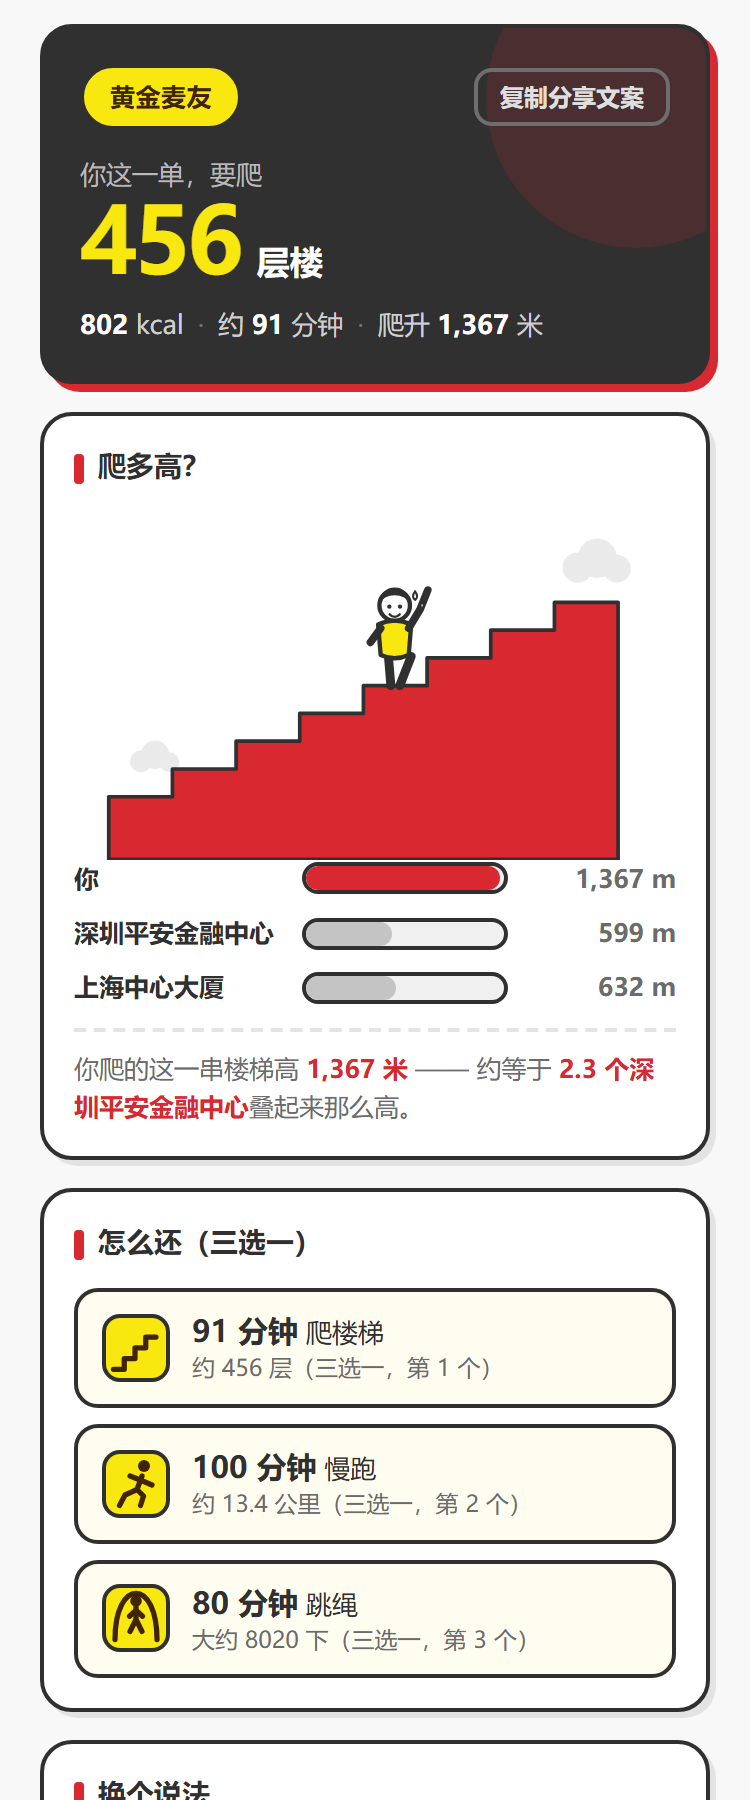
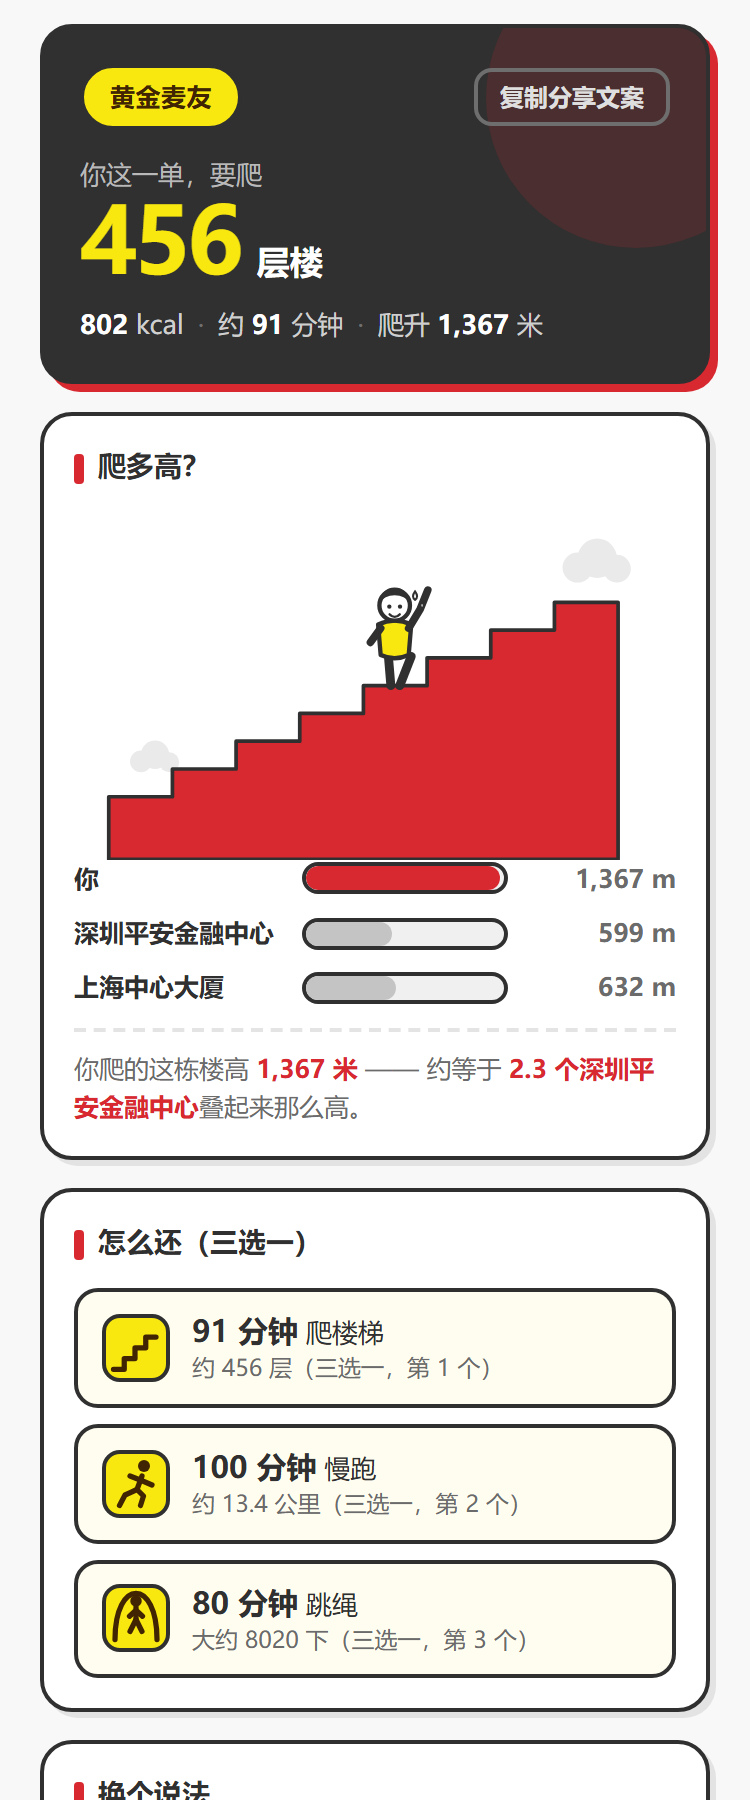
fix: 消除两引擎地标文案分叉，补齐轻食订单缺失的地标行
1.3.0 记录的"已知限制"实为两引擎行为分叉：同一笔订单，CLI 与 Demo 对地标
给出两种说法。数字没错，但违背 README"两引擎数字同源"的承诺，且只在特定
高度才暴露，普通回归跑不出来。

- 精度统一一位小数：CLI 用 %.0f（"约等于 2 个"），Demo 用 toFixed(1)
  （"约等于 2.3 个"）。统一为一位小数 —— 0 位会把 2.28 与 2.01 都压成
  "2 个"，丢失区分度。
- 轻食兜底：爬升 < 599 米时 Python 返回 None，render() 整行不输出，而
  Demo 有 nextLandmark() 兜底会显示"还差 98 米"。现 Python 补
  next_landmark()，任意正高度都有参照，不新增地标、不改变既有 >=599 米
  场景的输出。
- 接口解耦：Python 拆出引擎层 landmark_of() / next_landmark()（返回结构化
  数据，与 JS 的 landmarkNote()/nextLandmark() 一一对应），landmark_note()
  降级为薄展示层。此前一个在引擎层拼文案、一个在展示层拼，同一段文案逻辑
  两处维护，必然漂移。
- 措辞统一：Demo 的"你爬的这一串楼梯高 X 米"改为"你爬的这栋楼高 X 米"，
  与 CLI 一致。

验证：--doctor 13/13（新增"地标参照覆盖与精度"）· verify_demo.js 28/28
（新增 4 项地标契约）· stress_test.py 0 崩溃 / 0 错误 / 0 提示（原唯一提示
"轻食无地标参照"已消除）。两张截图按同参数重出，实测 375px 视口
cw=sw=375 无横向溢出。

Changed region(s): [[0.092, 0.5911, 0.8587, 0.6222]]

diff --git a/scripts/verify_demo.js b/scripts/verify_demo.js
@@ -82,9 +82,19 @@ check("802kcal 爬楼高度 = 1367 米", Math.round(c["爬楼高度米"]) === 13
 check("段位 802 -> 黄金麦友", E.rankOf(802) === "黄金麦友", E.rankOf(802));
 check("段位 294 -> 青铜麦友", E.rankOf(294) === "青铜麦友", E.rankOf(294));
 
-// 地标参照
-const lm = E.landmarkNote(1368);
-check("地标参照存在", !!lm, lm ? lm.ratio.toFixed(2) + " 个" + lm.name : "无");
+// 地标参照（引擎层返回结构、展示层格式化为一位小数 —— 与 Python landmark_note 对齐）
+// 1367 / 599 = 2.2818…，一位小数 = 2.3；0 位会把 2.28 与 2.01 都说成"2 个"
+const lm = E.landmarkNote(1367);
+check("地标 1367 米 -> 平安金融中心", !!(lm && lm.name === "深圳平安金融中心"),
+  lm ? lm.ratio.toFixed(2) + " 个" + lm.name : "无");
+check("地标精度一位小数 = 2.3", !!(lm && lm.ratio.toFixed(1) === "2.3"),
+  lm ? lm.ratio.toFixed(1) + " 个" : "无");
+check("599 米整算够到最低地标",
+  !!(E.landmarkNote(599) && E.landmarkNote(599).name === "深圳平安金融中心"), ">= 判定为够到");
+check("598.9 米够不到（走兜底）", E.landmarkNote(598.9) === null, "< 判定为未够到");
+const nx = E.nextLandmark(501);
+check("501 米下一地标差 98 米", !!(nx && Math.round(nx.gap) === 98),
+  nx ? "离" + nx.name + "还差 " + Math.round(nx.gap) + " 米" : "无");
 
 // 三个真实场景锚点：与 Python 引擎实测输出逐项对齐
 const scenes = [

diff --git a/index.html b/index.html
@@ -679,6 +679,8 @@ globalThis.Engine = {
 
     const lm = E.landmarkNote(h);
     const max = Math.max(h, lm ? lm.h : 0) * 1.02 || 1;
+    // 对比条只放两个地标当"刻度"（深圳平安金融中心 599 / 上海中心大厦 632），
+    // 是可视化的视觉锚点，不随 LANDMARKS 数组变动 —— 与文字参照是两码事。
     const rows = [
       { n: "你", v: h, cls: "you" },
       { n: "深圳平安金融中心", v: 599, cls: "lm" },
@@ -691,14 +693,14 @@ globalThis.Engine = {
 
     let note;
     if (lm) {
-      note = "你爬的这一串楼梯高 <b>" + fmt(Math.round(h)) + " 米</b> —— 约等于 <b>" +
+      note = "你爬的这栋楼高 <b>" + fmt(Math.round(h)) + " 米</b> —— 约等于 <b>" +
         lm.ratio.toFixed(1) + " 个" + lm.name + "</b>叠起来那么高。";
     } else {
       const nxt = E.nextLandmark(h);
       note = nxt
-        ? "你爬的这一串楼梯高 <b>" + fmt(Math.round(h)) + " 米</b> —— 离" + nxt.name + "还差 <b>" +
+        ? "你爬的这栋楼高 <b>" + fmt(Math.round(h)) + " 米</b> —— 离" + nxt.name + "还差 <b>" +
           fmt(Math.round(nxt.gap)) + " 米</b>。"
-        : "你爬的这一串楼梯高 <b>" + fmt(Math.round(h)) + " 米</b>。";
+        : "你爬的这栋楼高 <b>" + fmt(Math.round(h)) + " 米</b>。";
     }
     $("#bars").innerHTML = rows + '<div class="bar-note">' + note + "</div>";
   }

diff --git a/scripts/calorie_engine.py b/scripts/calorie_engine.py
@@ -235,14 +235,47 @@ def convert(kcal: float, weight_kg: float = DEFAULT_WEIGHT_KG) -> dict:
     return out
 
 
-def landmark_note(height_m: float) -> Optional[str]:
-    """给出"比你爬的楼还矮"的地标参照，制造荒诞感。"""
+def landmark_of(height_m: float) -> Optional[Dict[str, object]]:
+    """引擎层：返回最高的那个"已经够到"的地标（结构化，文案交给展示层）。
+
+    与 Demo 引擎的 landmarkNote() 一一对应 —— 引擎只给数，不给文案。
+    """
     if height_m <= 0:
         return None
     for name, h in LANDMARKS:
         if height_m >= h:
-            ratio = height_m / h
-            return "约等于 %.0f 个%s叠起来那么高" % (ratio, name)
+            return {"name": name, "h": float(h), "ratio": height_m / h}
+    return None
+
+
+def next_landmark(height_m: float) -> Optional[Dict[str, object]]:
+    """引擎层：返回下一个"还没够到"的地标，让轻食订单也有参照物。
+
+    与 Demo 引擎的 nextLandmark() 一一对应。
+    """
+    if height_m <= 0:
+        return None
+    for name, h in LANDMARKS:
+        if height_m < h:
+            return {"name": name, "h": float(h), "gap": h - height_m}
+    return None
+
+
+def landmark_note(height_m: float) -> Optional[str]:
+    """展示层：把地标换算成人话。任意正高度都有输出，不留空档。
+
+    两条与 Demo 对齐的硬约定：
+    1. 精度统一为**一位小数** —— 0 位会把 2.28 和 2.01 都说成"2 个"，丢失区分度，
+       且与 Demo 的 toFixed(1) 说法不一致；
+    2. 够不到最低地标时退化为"还差多少米" —— 否则轻食订单（501 米）整行消失，
+       同一单在 CLI 有参照、在 Demo 没有，违背 README 的"两引擎同源"承诺。
+    """
+    lm = landmark_of(height_m)
+    if lm:
+        return "约等于 %.1f 个%s叠起来那么高" % (lm["ratio"], lm["name"])
+    nxt = next_landmark(height_m)
+    if nxt:
+        return "离%s还差 %.0f 米" % (nxt["name"], nxt["gap"])
     return None
 
 
@@ -376,6 +409,18 @@ def doctor(table: Dict[str, dict]) -> int:
     except Exception as e:                                  # noqa: BLE001
         weight_ok, detail = False, "%s: %s" % (type(e).__name__, e)
     checks.append(("非法体重安全收敛", weight_ok, detail))
+
+    # 地标参照：任意正高度都必须有输出（轻食退化为"还差多少米"），
+    # 且精度必须与 Demo 同为一位小数 —— 否则同一单在 CLI 与 Demo 会出现两种说法。
+    nm_hot = landmark_note(1367) or ""
+    nm_lite = landmark_note(501) or ""
+    lm_ok = ((landmark_of(1367) or {}).get("name") == "深圳平安金融中心"
+             and landmark_of(501) is None
+             and "2.3" in nm_hot and "还差" in nm_lite
+             and landmark_note(0) is None)
+    checks.append(("地标参照覆盖与精度", lm_ok,
+                   "1367m → %s ；501m → %s" % (nm_hot, nm_lite) if lm_ok
+                   else "异常：1367m → %r ；501m → %r" % (nm_hot, nm_lite)))
 
     # 基准用例：数字一旦漂移，说明数据或换算被改坏
     baseline = [

diff --git a/scripts/stress_test.py b/scripts/stress_test.py
@@ -140,16 +140,37 @@ print("F. 地标参照（爬升高度换算）")
 print("=" * 68)
 for h in [0, 1, 10, 100, 500, 598, 599, 600, 1367, 10000, 100000]:
     try:
-        lm = m.landmark_note(h)   # 返回 str 或 None
+        lm = m.landmark_note(h)   # 返回 str；h <= 0 时为 None
         print("  %-8d 米 → %s" % (h, lm if lm else "（无参照）"))
     except Exception as e:
         fails.append("landmark_note(%s) 崩溃：%s" % (h, e))
         print("  💥 %-8d 米 → %s: %s" % (h, type(e).__name__, e))
-# 覆盖性检查：低于最低地标的高度全部拿不到参照
-no_lm = [h for h in [100, 300, 500, 598] if m.landmark_note(h) is None]
+# 覆盖性检查：任何正高度都必须有参照，轻食订单不能缺这块内容
+# （此前 <599 米直接返回 None，CLI 少一行、Demo 却有"还差多少米"，两引擎说法不一致）
+no_lm = [h for h in [1, 100, 300, 500, 598] if m.landmark_note(h) is None]
 if no_lm:
-    warns.append("爬升 %s 米以下没有地标参照（最低地标 599 米），轻食订单会缺这块内容" % max(no_lm))
-    print("  ⚠  爬升 ≤%d 米时无参照 —— 轻食订单（如吉士汉堡 501 米）会缺这行" % max(no_lm))
+    fails.append("爬升 %s 米没有地标参照，轻食订单会缺这块内容" % no_lm)
+    print("  ❌ 爬升 %s 米无参照 —— 轻食订单（如吉士汉堡 501 米）会缺这行" % no_lm)
+else:
+    print("  ✅ 任意正高度都有参照（够不到最低地标时退化为“还差多少米”）")
+# 精度契约：必须一位小数。0 位会把 2.28 与 2.01 都说成"2 个"，且与 Demo 的 toFixed(1) 不一致
+note_1367 = m.landmark_note(1367) or ""
+note_501 = m.landmark_note(501) or ""
+if "2.3" not in note_1367:
+    fails.append("地标精度未对齐一位小数：%r" % note_1367)
+elif "还差" not in note_501:
+    fails.append("轻食兜底文案缺失：%r" % note_501)
+else:
+    print("  ✅ 精度一位小数 + 轻食兜底")
+    print("     1367 米 → %s" % note_1367)
+    print("     501  米 → %s" % note_501)
+# 边界：恰好 599 米应当算"够到"，598 米应当"差 1 米"
+if (m.landmark_of(599) or {}).get("name") != "深圳平安金融中心":
+    fails.append("599 米整未判定为够到最低地标")
+elif (m.landmark_of(598.9) or {}) != {}:
+    fails.append("598.9 米不应判为够到 599 米地标")
+else:
+    print("  ✅ 边界 599 米整算够到 / 598.9 米走兜底")
 
 print()
 print("=" * 68)

diff --git a/CHANGELOG.md b/CHANGELOG.md
@@ -2,6 +2,47 @@
 
 本项目遵循语义化版本。所有日期为北京时间。
 
+## 1.4.0 — 2026-10-13
+
+### 修复
+清掉 1.3.0「已知限制」里记的两条**两引擎行为分叉** —— 同一笔订单，
+CLI 与 Demo 会给出**两种不同的地标说法**。数字没错，但直接违背 README
+「两引擎数字同源」的承诺，而且**只在特定高度才暴露**，普通回归跑不出来。
+
+- **地标精度不一致（0 位 vs 1 位小数）**
+  CLI 用 `%.0f` → 「约等于 **2** 个」；Demo 渲染层用 `toFixed(1)` → 「约等于 **2.3** 个」。
+  数值同源（1367 / 599 = 2.28），说法不同。0 位还会把 2.28 与 2.01 都压成「2 个」，丢失区分度。
+  → 统一为**一位小数**，README / SKILL 里的示例文案同步更新。
+
+- **轻食订单在 CLI 缺一整行**
+  爬升 < 599 米（低于最低地标）时 Python 返回 `None`，`render()` 干脆不输出这行；
+  而 Demo 有 `nextLandmark()` 兜底，会显示「离深圳平安金融中心还差 98 米」。
+  同一单（吉士汉堡 501 米）在 CLI 少一行、在 Demo 有 —— 这正是压力测试里**唯一**那条提示。
+  → Python 补齐 `next_landmark()`，任意正高度都有参照，
+  **不新增地标、不改变既有 ≥599 米场景的输出**。
+
+- **接口形态分叉**
+  Python `landmark_note()` 返回字符串、JS `landmarkNote()` 返回对象 `{ratio,name,h}` ——
+  一个在引擎层拼文案、一个在展示层拼，同一段文案逻辑两处维护，天然会漂移。
+  → Python 拆出引擎层 `landmark_of()` / `next_landmark()`（返回结构化数据，与 Demo 一一对应），
+  `landmark_note()` 降级为**薄展示层**，只负责格式化。
+  两引擎分工现在完全一致：**引擎给数，展示层给话**。
+
+- **措辞对齐**
+  Demo 的「你爬的这一串楼梯高 X 米」统一为 CLI 的「你爬的这栋楼高 X 米」。
+
+### 验证
+| 层面 | 方式 | 结果 |
+|---|---|---|
+| 引擎自检 | `python scripts/calorie_engine.py --doctor` | **13 / 13**（新增「地标参照覆盖与精度」）|
+| 跨语言一致性 | `node scripts/verify_demo.js` | **28 / 28**（新增 4 项地标契约）|
+| 对抗性压力 | `python scripts/stress_test.py` | **0 崩溃 / 0 错误 / 0 提示**（原唯一提示已消除）|
+
+> 三条问题都是**看着没坏、实际两处说法不同**的类型。
+> 教训同 1.3.0：跨语言双引擎项目里，**只要一件事有两处实现，就得有一处测试专门盯着它们对齐**。
+
+---
+
 ## 1.3.0 — 2026-10-13
 
 ### 修复
@@ -52,8 +93,10 @@
 - 爬升高度 **≤ 598 米**时无地标参照（最低地标为 599 米的深圳平安金融中心），
   轻食订单（如吉士汉堡 501 米）会缺这一行。若需补齐需新增更矮的地标，
   会改变现有 ≥599 米场景的参照结果，故暂不动，留待产品决策。
+  → **已于 1.4.0 修复**（改为"离最近地标还差多少米"，不新增地标、不改变既有场景）。
 - Python `landmark_note()` 返回**字符串**，JS `landmarkNote()` 返回**对象** `{ratio,name,h}`。
   两者数值一致但接口形态不同，属内部实现差异；消费端需按各自语言处理。
+  → **已于 1.4.0 解耦**（Python 拆出引擎层 `landmark_of()`，返回结构化数据）。
 
 ---
 

diff --git a/SKILL.md b/SKILL.md
@@ -90,7 +90,9 @@ python scripts/calorie_engine.py 巨无霸 --json          # 二次开发用
 🏃 或者跑步 **XX 分钟**
 🦵 或者深蹲 **XXXX 次**
 🍚 或者 **X.X 碗白米饭** / **XX 块方糖** / **X.X 汤匙油**
-📐 你爬的这栋楼高 XXX 米 —— 约等于 X 个{地标}叠起来那么高
+📐 你爬的这栋楼高 XXX 米 —— 约等于 X.X 个{地标}叠起来那么高
+
+（爬升不足 599 米时，这行改为：📐 你爬的这栋楼高 XXX 米 —— 离{最近地标}还差 XXX 米）
 
 **怎么还（三选一）**
 1. 爬楼梯 XX 分钟（约 XXX 层）
@@ -116,7 +118,7 @@ python scripts/calorie_engine.py 巨无霸 --json          # 二次开发用
 ✅ 好的表达：
 
 - "802 kcal，段位黄金麦友。恭喜，你今天欠了 456 层楼。"
-- "这栋楼 1367 米高 —— 2 个平安金融中心叠起来，你爬吧。"
+- "这栋楼 1367 米高 —— 2.3 个平安金融中心叠起来，你爬吧。"
 - "薯条那 289 卡先记着，回头一块儿还。"
 
 ❌ 禁止的表达：

diff --git a/README.md b/README.md
@@ -26,7 +26,7 @@
 > 🦵 或者深蹲 4812 次
 > 🍚 或者 4.6 碗白米饭 / 50 块方糖 / 8.9 汤匙油
 >
-> 📐 你爬的这栋楼高 1367 米 —— 约等于 2 个深圳平安金融中心叠起来那么高
+> 📐 你爬的这栋楼高 1367 米 —— 约等于 2.3 个深圳平安金融中心叠起来那么高
 ```
 
 **关键点：所有数字都是真的。** 热量来自麦当劳 MCP 的 `list-nutrition-foods` 接口，运动当量按公开的 MET（代谢当量）值换算。荒诞感不靠编造，靠的是把准确数据换成一个荒谬的单位。
